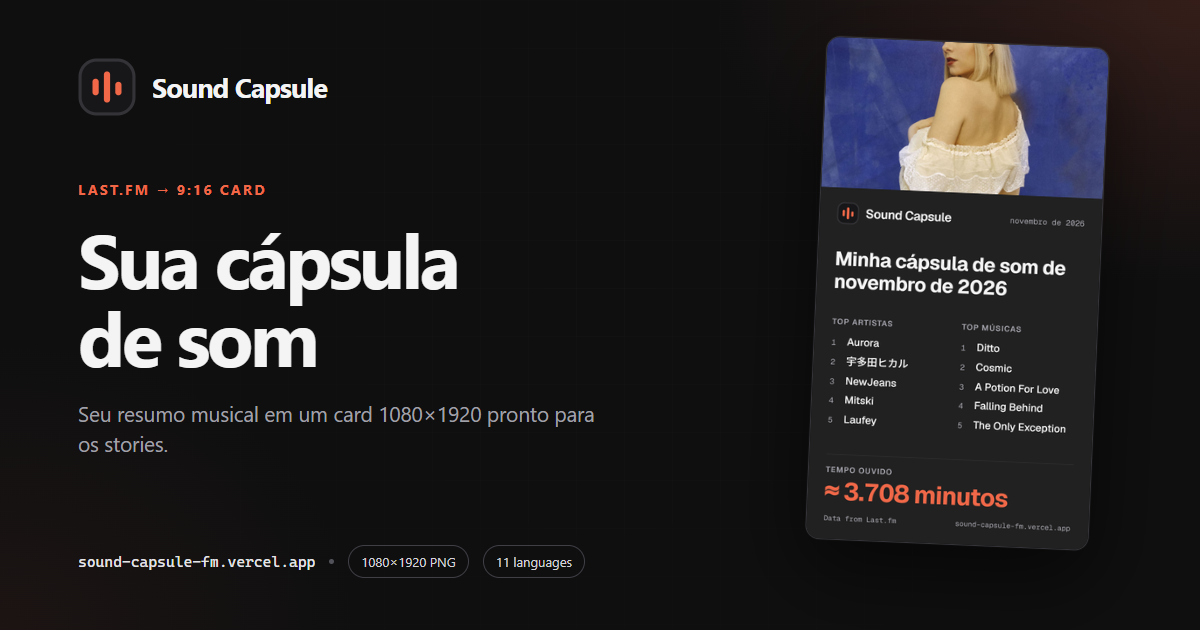
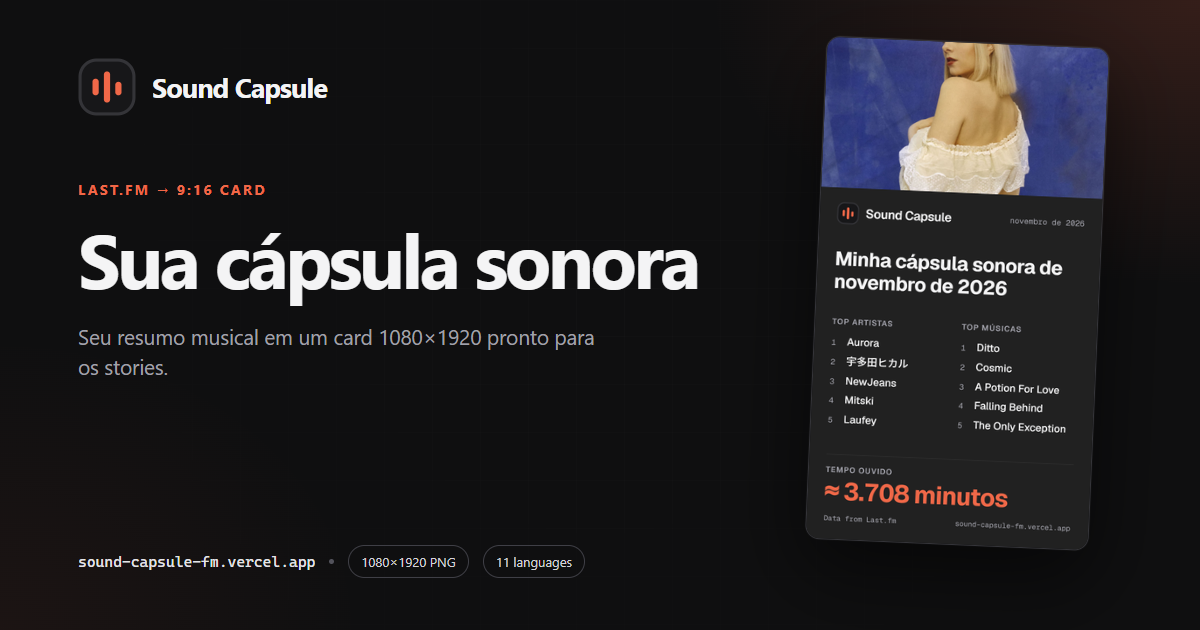
copy: use cápsula sonora in Portuguese
Replace cápsula de som with cápsula sonora in the pt catalog, README, localized sample card and Open Graph image.

diff --git a/docs/readme/README.pt-BR.md b/docs/readme/README.pt-BR.md
@@ -2,7 +2,7 @@
 
 # Sound Capsule for Last.fm
 
-Transforme seus scrobbles do Last.fm em uma **cápsula de som vertical 1080×1920** (formato story) pronta para baixar ou compartilhar. A agregação acontece inteiramente no navegador, sem login e sem banco de dados.
+Transforme seus scrobbles do Last.fm em uma **cápsula sonora vertical 1080×1920** (formato story) pronta para baixar ou compartilhar. A agregação acontece inteiramente no navegador, sem login e sem banco de dados.
 
 **Deploy:** <https://sound-capsule-fm.vercel.app>
 
@@ -316,6 +316,7 @@ Sound Capsule é um projeto independente, sem afiliação com o Last.fm ou qualq
 ## Créditos
 
 Criado por [Ranieeery](https://github.com/Ranieeery).
+
 
 
 
